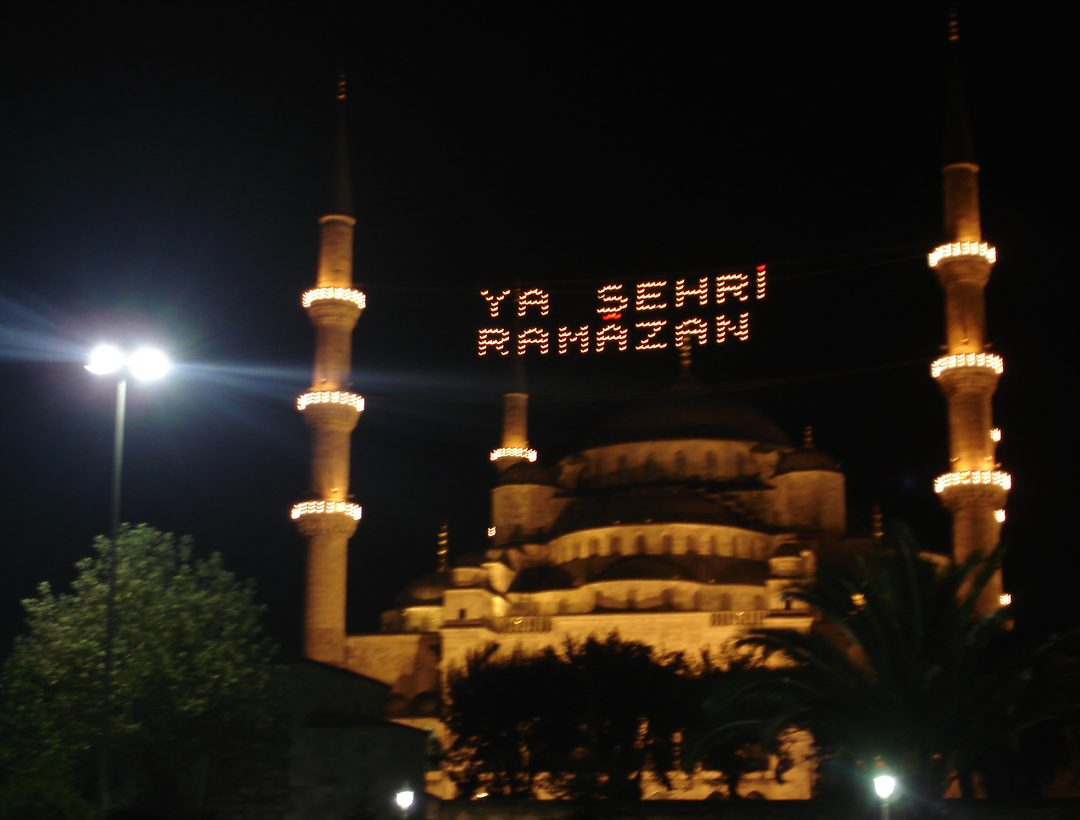
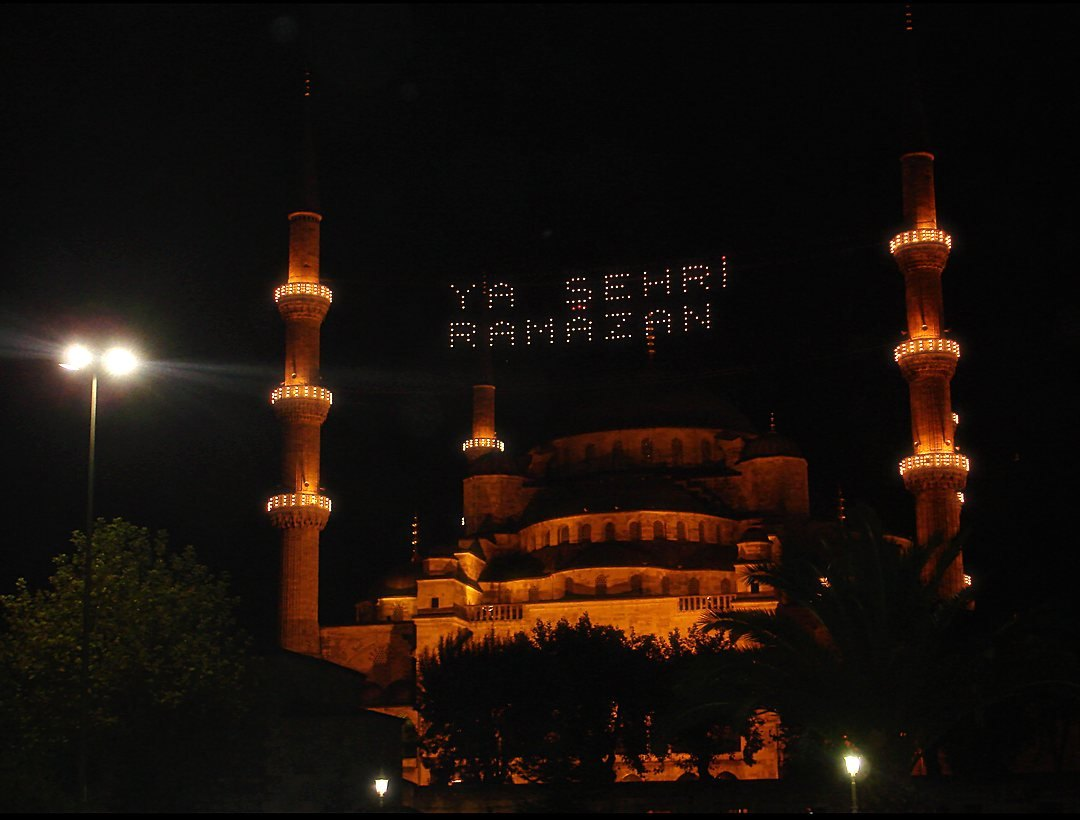
Özel gün kartları: seçilen tasarımlar yerleştirildi, yeni şablonlar eklendi
- 14 günün kartı seçildi ve ozel-gunler.json'a işlendi
- Yeni şablonlar: madalyon, çini, mektup, oval, yazı içinde fotoğraf, hatıra pulu
- Ramazan kartında daha net fotoğraf
- 15 Temmuz metni: Demokrasi ve Millî Birlik Günü

diff --git a/docs/kartlar.js b/docs/kartlar.js
@@ -943,12 +943,12 @@ window.RC_KARTLAR = (function () {
     g.restore();
   }
   // Altın yaldızlı el yazısı satırı (sığmazsa küçülür)
-  function elYazisi(g, W, metin, px, renk) {
+  function elYazisi(g, W, metin, px, renk, golgesiz) {
     g.font = EL(px); while (px > 60 && g.measureText(metin).width > W - 190) { px -= 4; g.font = EL(px); }
     const h = Math.round(px * 1.05);
     return { h, ciz: (y) => {
       g.save(); g.font = EL(px); const w = g.measureText(metin).width, cy = y + h / 2 + px * 0.06;
-      g.shadowColor = "rgba(0,0,0,.45)"; g.shadowBlur = 18; g.shadowOffsetY = 3;
+      if (!golgesiz) { g.shadowColor = "rgba(0,0,0,.45)"; g.shadowBlur = 18; g.shadowOffsetY = 3; }
       g.fillStyle = renk || dz(g, W / 2 - w / 2, cy - px / 2, W / 2 + w / 2, cy + px / 2, ALTIN); g.fillText(metin, W / 2, cy);
       g.restore();
     } };
@@ -977,8 +977,8 @@ window.RC_KARTLAR = (function () {
     if (ad === "yilbasi") { bas = altM || bas; altM = ""; }
     const kur = (k) => {
       const L = [], b = (n) => Math.round(n * k);
-      if (o.tarih) L.push(Y.tarihSatiri(g, W, o.tarih, P.tarih || P.vurgu, 26), b(el ? 6 : 26));
-      if (el) L.push(elYazisi(g, W, el, b(f.elPx || 128), P.el));
+      if (o.tarih && !f.tarihYok) L.push(Y.tarihSatiri(g, W, o.tarih, P.tarih || P.vurgu, 26), b(el ? 6 : 26));
+      if (el) L.push(elYazisi(g, W, el, b(f.elPx || 128), P.el, P.elGolgesiz));
       if (ad === "yilbasi" && o.yil) { const px = b(150); L.push(b(2), { h: Math.round(px * 0.9), ciz: (y) => { g.save(); g.font = SERIF(800, px); const w = g.measureText(String(o.yil)).width; g.fillStyle = dz(g, W / 2 - w / 2, y, W / 2 + w / 2, y + px, ALTIN); g.shadowColor = "rgba(255,200,110,.35)"; g.shadowBlur = 36; g.fillText(String(o.yil), W / 2, y + px * 0.47); g.restore(); } }); }
       if (f.baslik) { const px = b(f.baslikPx || 84); L.push({ h: Math.round(px * 1.05), ciz: (y) => { g.save(); g.font = SERIF(700, px); Y.harfAra(g, 6); g.fillStyle = P.baslik || "#fff"; g.fillText(f.baslik, W / 2, y + px * 0.52); Y.harfAra(g, 0); g.restore(); } }); }
       L.push(b(14), { h: 16, ciz: (y) => ayrac(g, W / 2, y + 8, 300, P.cizgi || P.vurgu) }, b(22));
@@ -1067,7 +1067,217 @@ window.RC_KARTLAR = (function () {
     altImza(g, W, o, P.yazi, P.vurgu, P.soluk);
     kunye(g, f, W / 2, 1300, "rgba(255,255,255,.55)");
   }
-  const SABLON = { tam: tamSablon, kemer: kemerSablon, kolaj: kolajSablon };
+  // Şablon 4, yazı içinde fotoğraf: büyük harflerin içi fotoğrafla dolar (ör. 15 TEMMUZ)
+  function maskeSablon(g, W, H, o, f) {
+    const P = f.P, S = en() ? f.sozEn : f.soz;
+    g.fillStyle = P.zemin; g.fillRect(0, 0, W, H);
+    isik(g, W / 2, 400, 700, hexA(P.vurgu, 0.2));
+    // üstte küçük bayrak
+    g.save(); g.shadowColor = "rgba(0,0,0,.5)"; g.shadowBlur = 14; g.translate(W / 2 - 42, 64); bayrakDuz(g, 84, 56); g.restore();
+    const mc = yeni(W, H), m = mc.getContext("2d"); m.textAlign = "center"; m.textBaseline = "alphabetic";
+    const satir = []; let y = 150;
+    S.forEach((t, i) => {
+      let px = i === 0 ? 600 : 210, ara = i === 0 ? -10 : 12; const yaz = () => { m.font = SERIF(900, px); Y.harfAra(m, ara); };
+      yaz(); while (m.measureText(t).width > W - 150) { px -= 6; yaz(); }
+      const me = m.measureText(t); y += me.actualBoundingBoxAscent; satir.push([t, px, ara, y]); y += me.actualBoundingBoxDescent + (i === 0 ? 40 : 0);
+    });
+    const yazHepsi = (c, dolgu, cizgi) => { for (const [t, px, ara, yy] of satir) { c.font = SERIF(900, px); Y.harfAra(c, ara); if (dolgu) c.fillText(t, W / 2, yy); if (cizgi) c.strokeText(t, W / 2, yy); } Y.harfAra(c, 0); };
+    m.fillStyle = "#fff"; yazHepsi(m, true);
+    m.globalCompositeOperation = "source-in";
+    if (o.foto) { kapla(m, o.foto, 0, 120, W, y - 100, f.odak); m.globalCompositeOperation = "source-atop"; m.fillStyle = dz(m, 0, 120, 0, y, [[0, "rgba(0,0,0,0)"], [1, "rgba(0,0,0,.25)"]]); m.fillRect(0, 0, W, H); }
+    else { m.fillStyle = dz(m, 0, 150, 0, y, [[0, "#ff4b55"], [1, "#8f0610"]]); m.fillRect(0, 0, W, H); }
+    g.save(); g.shadowColor = hexA(P.vurgu, 0.6); g.shadowBlur = 70; g.drawImage(mc, 0, 0); g.restore();
+    g.drawImage(mc, 0, 0);
+    g.save(); g.textAlign = "center"; g.textBaseline = "alphabetic"; g.strokeStyle = "rgba(255,255,255,.55)"; g.lineWidth = 2; yazHepsi(g, false, true); g.restore();
+    cerceve(g, W, H, 26, hexA(P.cerceve || "#ffffff", 0.3));
+    fotoYazi(g, W, o, f, Math.max(y + 30, 780), 1112);
+    altImza(g, W, o, P.yazi, P.vurgu, P.soluk);
+    kunye(g, f, W / 2, 1302, "rgba(255,255,255,.5)");
+  }
+  // Şablon 5, madalyon: fotoğraf dilimli altın rozetin ortasında, altında kurdele, çevrede konfeti
+  function madalyonSablon(g, W, H, o, f) {
+    const P = f.P, cx = W / 2, cy = 420, R = 262;
+    zemin(g, W, H, [[0, P.zemin2], [1, P.zemin]]);
+    g.save(); g.globalAlpha = P.desen || 0.12; selcuk(g, 0, 0, W, H, 120, { zemin: "rgba(0,0,0,0)", yildiz: P.vurgu, cizgi: P.vurgu, ic: P.zemin }); g.restore();
+    g.fillStyle = rz(g, cx, cy, R, 900, [[0, hexA(P.zemin, 0)], [1, hexA(P.zemin, 0.88)]]); g.fillRect(0, 0, W, H);
+    isik(g, cx, cy, R + 300, "rgba(255,214,140,.28)");
+    const r = rastgele(f.tohum || 309);
+    for (let i = 0; i < 70; i++) {
+      const x = 50 + r() * (W - 100), yy = 50 + r() * 740, t = r(), a = r() * PI2, s = 3 + r() * 7, renk = r() < 0.6 ? P.vurgu : P.konfeti || "#ffffff", al = 0.35 + r() * 0.55;
+      if (Math.hypot(x - cx, yy - cy) < R + 80) continue;
+      g.save(); g.globalAlpha = al; g.fillStyle = renk; g.translate(x, yy); g.rotate(a);
+      if (t < 0.55) baklava(g, 0, 0, s); else if (t < 0.85) yildiz8(g, 0, 0, s + 2, 0.5); else { g.beginPath(); g.arc(0, 0, s * 0.5, 0, PI2); }
+      g.fill(); g.restore();
+    }
+    // dilimli altın rozet
+    const n = 40, Rd = R + 54, rozet = () => { g.beginPath(); for (let i = 0; i <= 720; i++) { const t = (i / 720) * PI2, rr = Rd - 16 + 16 * Math.sqrt(Math.abs(Math.cos((t * n) / 2))); g.lineTo(cx + Math.cos(t) * rr, cy + Math.sin(t) * rr); } g.closePath(); };
+    g.save(); g.shadowColor = "rgba(0,0,0,.55)"; g.shadowBlur = 44; g.shadowOffsetY = 16; rozet(); g.fillStyle = dz(g, cx - Rd, cy - Rd, cx + Rd, cy + Rd, ALTIN); g.fill(); g.restore();
+    g.beginPath(); g.arc(cx, cy, R + 30, 0, PI2); g.fillStyle = P.halka || P.zemin; g.fill();
+    g.fillStyle = dz(g, cx - R, cy - R, cx + R, cy + R, ALTIN);
+    for (let i = 0; i < 64; i++) { const t = (i / 64) * PI2; g.beginPath(); g.arc(cx + Math.cos(t) * (R + 17), cy + Math.sin(t) * (R + 17), 3.6, 0, PI2); g.fill(); }
+    g.save(); g.beginPath(); g.arc(cx, cy, R, 0, PI2); g.clip();
+    if (o.foto) kapla(g, o.foto, cx - R, cy - R, 2 * R, 2 * R, f.odak); else { g.fillStyle = dz(g, 0, cy - R, 0, cy + R, [[0, P.zemin2], [1, P.vurgu]]); g.fillRect(cx - R, cy - R, 2 * R, 2 * R); }
+    g.fillStyle = rz(g, cx, cy, R * 0.55, R, [[0, "rgba(0,0,0,0)"], [1, "rgba(0,0,0,.32)"]]); g.fillRect(cx - R, cy - R, 2 * R, 2 * R);
+    g.restore();
+    g.beginPath(); g.arc(cx, cy, R + 4, 0, PI2); g.lineWidth = 5; g.strokeStyle = dz(g, cx - R, cy - R, cx + R, cy + R, ALTIN); g.stroke();
+    // kurdele: iki ucu V kesik, ortası hafif kavisli
+    const ky = cy + R + 4, kh = 88, kx0 = 170, kx1 = W - 170, s = 16, kur = P.kurdele || "#b3122e";
+    for (const k of [-1, 1]) {
+      const xd = k < 0 ? kx0 : kx1, xu = xd + k * 110;
+      g.save(); g.shadowColor = "rgba(0,0,0,.45)"; g.shadowBlur = 18; g.shadowOffsetY = 8;
+      g.beginPath(); g.moveTo(xd - k * 40, ky + 22); g.lineTo(xu, ky + 22); g.lineTo(xu - k * 34, ky + 22 + kh / 2); g.lineTo(xu, ky + 22 + kh); g.lineTo(xd - k * 40, ky + 22 + kh); g.closePath();
+      g.fillStyle = P.kurdeleKoyu || "#7d0b1f"; g.fill(); g.restore();
+    }
+    g.save(); g.shadowColor = "rgba(0,0,0,.45)"; g.shadowBlur = 22; g.shadowOffsetY = 10;
+    g.beginPath(); g.moveTo(kx0, ky + s); g.quadraticCurveTo(cx, ky - s, kx1, ky + s); g.lineTo(kx1, ky + kh + s); g.quadraticCurveTo(cx, ky + kh - s, kx0, ky + kh + s); g.closePath();
+    g.fillStyle = dz(g, 0, ky - s, 0, ky + kh + s, [[0, hexA(kur, 1)], [0.5, kur], [1, P.kurdeleKoyu || "#7d0b1f"]]); g.fill(); g.restore();
+    g.strokeStyle = dz(g, kx0, 0, kx1, 0, ALTIN); g.lineWidth = 2;
+    for (const d of [8, kh - 8]) { g.beginPath(); g.moveTo(kx0 + 6, ky + s + d - 2); g.quadraticCurveTo(cx, ky - s + d + 2, kx1 - 6, ky + s + d - 2); g.stroke(); }
+    g.save(); g.font = SERIF(700, 44); Y.harfAra(g, 5); g.fillStyle = "#fff"; g.shadowColor = "rgba(0,0,0,.35)"; g.shadowBlur = 6;
+    const ad = en() ? f.kurdeleEn : f.kurdeleYazi; let px = 44; while (g.measureText(ad).width > kx1 - kx0 - 90 && px > 28) { px -= 2; g.font = SERIF(700, px); }
+    g.fillText(ad, cx, ky + kh / 2 - 2); Y.harfAra(g, 0); g.restore();
+    cerceve(g, W, H, 26, hexA(P.cerceve || "#e7c983", 0.6));
+    fotoYazi(g, W, o, f, ky + kh + 46, 1112);
+    altImza(g, W, o, P.yazi, P.vurgu, P.soluk);
+    kunye(g, f, W / 2, 1302, P.kunye || "rgba(255,255,255,.55)");
+  }
+  // İznik çinisi: beyaz sır üstünde kobalt göbek, turkuaz yapraklar, mercan kırmızısı orta
+  function ciniKaro(g, x, y, s, R) {
+    g.save(); g.translate(x, y); g.beginPath(); g.rect(0, 0, s, s); g.clip();
+    g.fillStyle = R.zemin; g.fillRect(0, 0, s, s);
+    g.fillStyle = R.turkuaz;
+    for (const [cx, cy] of [[0, 0], [s, 0], [0, s], [s, s]]) for (let k = 0; k < 4; k++) { const a = (k * Math.PI) / 2 + Math.PI / 4; g.beginPath(); g.ellipse(cx + Math.cos(a) * s * 0.19, cy + Math.sin(a) * s * 0.19, s * 0.17, s * 0.07, a, 0, PI2); g.fill(); }
+    g.fillStyle = R.kirmizi; for (const [cx, cy] of [[0, 0], [s, 0], [0, s], [s, s]]) { g.beginPath(); g.arc(cx, cy, s * 0.06, 0, PI2); g.fill(); }
+    g.fillStyle = R.kobalt; for (const [cx, cy] of [[s / 2, 0], [s / 2, s], [0, s / 2], [s, s / 2]]) { g.beginPath(); g.arc(cx, cy, s * 0.07, 0, PI2); g.fill(); }
+    const c = s / 2; g.fillStyle = R.kobalt;
+    for (let k = 0; k < 8; k++) { const a = (k * Math.PI) / 4; g.beginPath(); g.ellipse(c + Math.cos(a) * s * 0.17, c + Math.sin(a) * s * 0.17, s * 0.14, s * 0.06, a, 0, PI2); g.fill(); }
+    g.beginPath(); g.arc(c, c, s * 0.09, 0, PI2); g.fillStyle = R.turkuaz; g.fill();
+    g.beginPath(); g.arc(c, c, s * 0.055, 0, PI2); g.fillStyle = R.kirmizi; g.fill();
+    g.strokeStyle = "rgba(20,50,95,.22)"; g.lineWidth = 1; g.strokeRect(0.5, 0.5, s - 1, s - 1);
+    g.restore();
+  }
+  // Şablon 6, çini çerçeve: kenarlar İznik çinisi, ortada fotoğraf ve yazı
+  function ciniSablon(g, W, H, o, f) {
+    const P = f.P, R = P.cini, s = 90, nx = W / s, ny = Math.round(H / s);
+    g.fillStyle = P.zemin; g.fillRect(0, 0, W, H);
+    for (let j = 0; j < ny; j++) for (let i = 0; i < nx; i++) if (i === 0 || j === 0 || i === nx - 1 || j === ny - 1) ciniKaro(g, i * s, j * s, s, R);
+    g.fillStyle = rz(g, W / 2, H / 2, 200, 760, [[0, P.zemin], [1, P.zemin2 || P.zemin]]); g.fillRect(s, s, W - 2 * s, H - 2 * s);
+    g.strokeStyle = R.kobalt; g.lineWidth = 6; g.strokeRect(s + 3, s + 3, W - 2 * s - 6, H - 2 * s - 6);
+    g.strokeStyle = R.kirmizi; g.lineWidth = 2; g.strokeRect(s + 12, s + 12, W - 2 * s - 24, H - 2 * s - 24);
+    // fotoğraf penceresi
+    const x0 = 150, y0 = 150, x1 = W - 150, y1 = 668;
+    g.save(); g.shadowColor = "rgba(20,40,80,.35)"; g.shadowBlur = 26; g.shadowOffsetY = 10; g.fillStyle = R.kobalt; g.fillRect(x0 - 10, y0 - 10, x1 - x0 + 20, y1 - y0 + 20); g.restore();
+    if (o.foto) kapla(g, o.foto, x0, y0, x1 - x0, y1 - y0, f.odak); else { g.fillStyle = dz(g, 0, y0, 0, y1, [[0, R.turkuaz], [1, R.kobalt]]); g.fillRect(x0, y0, x1 - x0, y1 - y0); }
+    g.strokeStyle = "rgba(255,255,255,.85)"; g.lineWidth = 2; g.strokeRect(x0 + 8, y0 + 8, x1 - x0 - 16, y1 - y0 - 16);
+    g.fillStyle = R.kirmizi; for (const [x, y] of [[x0 - 10, y0 - 10], [x1 + 10, y0 - 10], [x0 - 10, y1 + 10], [x1 + 10, y1 + 10]]) { yildiz8(g, x, y, 16, 0.5); g.fill(); }
+    kunye(g, f, x1 + 10, y1 + 34, P.kunye || "rgba(29,42,68,.6)", false, "right");
+    fotoYazi(g, W, o, f, y1 + 50, 1064);
+    Y.imza(g, W, 1116, o.ikon, P.yazi, P.vurgu, P.soluk);
+  }
+  // Şablon 7, mektup: çizgili kâğıt, bantla yapıştırılmış fotoğraf, el yazısıyla hitap ve imza
+  function mektupSablon(g, W, H, o, f) {
+    const P = f.P, M = en() ? f.mektupEn : f.mektup, r = rastgele(41);
+    g.fillStyle = P.zemin; g.fillRect(0, 0, W, H);
+    for (let i = 0; i < 2600; i++) { g.fillStyle = r() < 0.5 ? "rgba(120,80,50,.04)" : "rgba(255,255,255,.35)"; g.fillRect(r() * W, r() * H, 1 + r() * 2, 1 + r() * 2); }
+    g.fillStyle = rz(g, W / 2, H / 2, 300, 900, [[0, "rgba(0,0,0,0)"], [1, "rgba(120,70,40,.12)"]]); g.fillRect(0, 0, W, H);
+    // tarih (mektup başı gibi sağ üstte)
+    if (o.tarih) { g.save(); g.textAlign = "right"; g.font = Y.PF(800, 22); Y.harfAra(g, 5); g.fillStyle = P.tarih || P.vurgu; g.fillText(o.tarih, W - 96, 70); Y.harfAra(g, 0); g.restore(); }
+    // fotoğraf: anı fotoğrafı gibi beyaz kenarlı, hafif eğik, iki köşesinde bant
+    const fw = 600, fh = 420, fx = W / 2 + 10, fy = 356, a = -0.045;
+    g.save(); g.translate(fx, fy); g.rotate(a);
+    g.shadowColor = "rgba(70,40,30,.35)"; g.shadowBlur = 30; g.shadowOffsetY = 12; g.fillStyle = "#fffdf8"; g.fillRect(-fw / 2 - 22, -fh / 2 - 22, fw + 44, fh + 104); g.shadowColor = "transparent";
+    if (o.foto) kapla(g, o.foto, -fw / 2, -fh / 2, fw, fh, f.odak); else { g.fillStyle = P.vurgu; g.fillRect(-fw / 2, -fh / 2, fw, fh); }
+    g.font = EL(46); g.fillStyle = "#5b4a44"; g.fillText(en() ? f.yerEn || f.yer : f.yer, 0, fh / 2 + 42);
+    for (const k of [-1, 1]) { g.save(); g.translate(k * (fw / 2 - 10), -fh / 2 - 16); g.rotate(k * 0.7); g.fillStyle = "rgba(240,226,190,.85)"; g.fillRect(-58, -16, 116, 32); g.restore(); }
+    g.restore();
+    // kurutulmuş laleler
+    lale(g, 900, 610, 0.4, 0.42, P.lale1 || "#f6a04d", P.lale2 || "#d9541f", P.sap || "#5f8a4c");
+    lale(g, 930, 640, 0.34, 0.12, P.lale1 || "#f6a04d", P.lale2 || "#d9541f", P.sap || "#5f8a4c");
+    // çizgiler ve yazı
+    const sol = 120, sag = W - 120, ara = 62, ilk = 760;
+    g.strokeStyle = hexA(P.cizgi, 0.32); g.lineWidth = 1.4;
+    for (let y = ilk; y <= 1096; y += ara) { g.beginPath(); g.moveTo(sol - 20, y); g.lineTo(sag + 20, y); g.stroke(); }
+    g.save(); g.textAlign = "left"; g.textBaseline = "alphabetic";
+    g.font = EL(92); g.fillStyle = P.el || P.vurgu; g.fillText(M[0], sol, ilk - 6);
+    const rr = Y.satirla(g, M[1], sag - sol, (p) => SERIF(500, p, true), 40, 30, 4), L = rr.s;
+    g.font = SERIF(500, rr.px, true); g.fillStyle = P.yazi; L.forEach((t, i) => g.fillText(t, sol, ilk + ara * (i + 1) - 12));
+    g.textAlign = "right"; g.font = EL(70); g.fillStyle = P.el || P.vurgu; g.fillText(M[2], sag, ilk + ara * (L.length + 1) + 4);
+    g.restore();
+    altImza(g, W, o, P.yazi, P.vurgu, P.soluk);
+    kunye(g, f, W / 2, 1302, P.kunye || "rgba(60,40,35,.55)");
+  }
+  // Şablon 8, oval çerçeve: incili altın oval içinde fotoğraf, tepede fiyonk, altta çiçekler
+  function ovalSablon(g, W, H, o, f) {
+    const P = f.P, cx = W / 2, cy = 440, rx = 280, ry = 330, r = rastgele(f.tohum || 77);
+    zemin(g, W, H, [[0, P.zemin2], [1, P.zemin]]);
+    for (let i = 0; i < 26; i++) { const x = r() * W, y = r() * 900, s = 8 + r() * 16; g.save(); g.translate(x, y); g.rotate(r() * PI2); g.globalAlpha = 0.18 + r() * 0.22; g.fillStyle = r() < 0.5 ? P.vurgu : P.yaprak || "#e9a3b3"; g.beginPath(); g.ellipse(0, 0, s, s * 0.55, 0, 0, PI2); g.fill(); g.restore(); }
+    g.save(); g.shadowColor = "rgba(90,30,45,.35)"; g.shadowBlur = 44; g.shadowOffsetY = 16; g.beginPath(); g.ellipse(cx, cy, rx + 36, ry + 36, 0, 0, PI2); g.fillStyle = dz(g, cx - rx, cy - ry, cx + rx, cy + ry, ALTIN); g.fill(); g.restore();
+    g.beginPath(); g.ellipse(cx, cy, rx + 26, ry + 26, 0, 0, PI2); g.fillStyle = P.halka || "#fff8f4"; g.fill();
+    for (let i = 0; i < 76; i++) { const t = (i / 76) * PI2, x = cx + Math.cos(t) * (rx + 13), y = cy + Math.sin(t) * (ry + 13); g.fillStyle = rz(g, x - 2, y - 2, 0, 8, [[0, "#ffffff"], [0.6, "#f3e7e2"], [1, "#cdb8b0"]]); g.beginPath(); g.arc(x, y, 6.2, 0, PI2); g.fill(); }
+    g.save(); g.beginPath(); g.ellipse(cx, cy, rx, ry, 0, 0, PI2); g.clip();
+    if (o.foto) kapla(g, o.foto, cx - rx, cy - ry, 2 * rx, 2 * ry, f.odak); else { g.fillStyle = dz(g, 0, cy - ry, 0, cy + ry, [[0, P.zemin2], [1, P.vurgu]]); g.fillRect(cx - rx, cy - ry, 2 * rx, 2 * ry); }
+    g.fillStyle = rz(g, cx, cy, rx * 0.6, ry * 1.05, [[0, "rgba(0,0,0,0)"], [1, "rgba(60,20,30,.28)"]]); g.fillRect(cx - rx, cy - ry, 2 * rx, 2 * ry);
+    g.restore();
+    g.beginPath(); g.ellipse(cx, cy, rx + 2, ry + 2, 0, 0, PI2); g.lineWidth = 4; g.strokeStyle = dz(g, cx - rx, cy - ry, cx + rx, cy + ry, ALTIN); g.stroke();
+    // fiyonk
+    const by = cy - ry - 30, kr = P.kurdele || "#c2416b", kk = P.kurdeleKoyu || "#8e2347";
+    g.save(); g.shadowColor = "rgba(80,20,40,.35)"; g.shadowBlur = 12; g.shadowOffsetY = 5;
+    for (const k of [-1, 1]) {
+      g.fillStyle = kk; g.beginPath(); g.moveTo(cx, by + 6); g.quadraticCurveTo(cx + k * 30, by + 70, cx + k * 58, by + 118); g.lineTo(cx + k * 30, by + 108); g.lineTo(cx + k * 22, by + 128); g.quadraticCurveTo(cx + k * 6, by + 60, cx - k * 4, by + 10); g.closePath(); g.fill();
+      g.fillStyle = dz(g, cx, by - 40, cx + k * 110, by + 30, [[0, kk], [0.4, kr], [1, kr]]);
+      g.beginPath(); g.moveTo(cx, by); g.bezierCurveTo(cx + k * 40, by - 70, cx + k * 120, by - 52, cx + k * 112, by - 6); g.bezierCurveTo(cx + k * 106, by + 34, cx + k * 44, by + 26, cx, by); g.fill();
+    }
+    g.fillStyle = kk; g.beginPath(); g.ellipse(cx, by, 20, 17, 0, 0, PI2); g.fill(); g.restore();
+    // altta karanfil ve lale demetleri
+    for (const k of [-1, 1]) {
+      const x = cx + k * (rx - 10), y = cy + ry - 6;
+      lale(g, x + k * 34, y + 26, 0.42, k * 0.55, P.lale1 || "#f4a6b8", P.lale2 || "#d4537a", P.sap || "#5f8a4c");
+      karanfil(g, x, y, 34, P.vurgu, P.kurdeleKoyu || "#8e2347");
+      karanfil(g, x - k * 44, y + 24, 26, P.yaprak || "#e98aa4", P.kurdeleKoyu || "#8e2347");
+    }
+    cerceve(g, W, H, 26, hexA(P.cerceve || "#c99a72", 0.6));
+    fotoYazi(g, W, o, f, cy + ry + 66, 1112);
+    altImza(g, W, o, P.yazi, P.vurgu, P.soluk);
+    kunye(g, f, W / 2, 1302, P.kunye || "rgba(58,29,37,.55)");
+  }
+  // Şablon 9, hatıra pulu: lacivert pul albümünde tırtıklı kenarlı pul, köşesinde kırmızı yuvarlak damga
+  function pulSablon(g, W, H, o, f) {
+    const P = f.P, T = en() ? f.pulEn : f.pul;
+    zemin(g, W, H, [[0, P.zemin2], [1, P.zemin]]);
+    g.strokeStyle = "rgba(255,255,255,.05)"; g.lineWidth = 2; for (let y = 60; y < H; y += 36) { g.beginPath(); g.moveTo(0, y); g.lineTo(W, y); g.stroke(); }
+    isik(g, W / 2, 420, 620, "rgba(255,255,255,.07)");
+    const pw = 620, ph = 760, px0 = -pw / 2, py0 = -ph / 2, a = -0.025, cx = W / 2, cy = 82 + ph / 2;
+    // pul kâğıdı: kenarları tırtıklı (yarım daireler kesilir)
+    const pc = yeni(pw + 40, ph + 40), p = pc.getContext("2d"), o2 = 20;
+    p.fillStyle = "#fbfaf6"; p.fillRect(o2, o2, pw, ph);
+    p.globalCompositeOperation = "destination-out"; const r = 9, ad = 26;
+    for (let x = o2 + ad / 2; x < o2 + pw; x += ad) for (const y of [o2, o2 + ph]) { p.beginPath(); p.arc(x, y, r, 0, PI2); p.fill(); }
+    for (let y = o2 + ad / 2; y < o2 + ph; y += ad) for (const x of [o2, o2 + pw]) { p.beginPath(); p.arc(x, y, r, 0, PI2); p.fill(); }
+    p.globalCompositeOperation = "source-over";
+    const fx = o2 + 30, fy = o2 + 30, fw = pw - 60, fh = pw - 60;
+    if (o.foto) kapla(p, o.foto, fx, fy, fw, fh, f.odak); else { p.fillStyle = "#e30a17"; p.fillRect(fx, fy, fw, fh); }
+    p.strokeStyle = "rgba(0,0,0,.18)"; p.lineWidth = 1; p.strokeRect(fx + 0.5, fy + 0.5, fw - 1, fh - 1);
+    p.textAlign = "center"; p.textBaseline = "middle";
+    let px = 70; p.font = SERIF(800, px); Y.harfAra(p, 4); while (p.measureText(T[0]).width > fw && px > 40) { px -= 2; p.font = SERIF(800, px); }
+    p.fillStyle = P.vurgu; p.fillText(T[0], o2 + pw / 2, fy + fh + 62);
+    px = 22; p.font = Y.PF(800, px); Y.harfAra(p, 4); while (p.measureText(T[1]).width > fw && px > 14) { px -= 1; p.font = Y.PF(800, px); }
+    p.fillStyle = "#26304a"; p.fillText(T[1], o2 + pw / 2, fy + fh + 118); Y.harfAra(p, 0);
+    g.save(); g.translate(cx, cy); g.rotate(a); g.shadowColor = "rgba(0,0,0,.55)"; g.shadowBlur = 34; g.shadowOffsetY = 14; g.drawImage(pc, px0 - o2, py0 - o2); g.restore();
+    // kırmızı yuvarlak damga (pulun sağ üst köşesinde, gökyüzünün üstünde; bayrağa değmez)
+    const dx = cx + pw / 2 - 24, dy = cy - ph / 2 + 92, dr = 100, M = en() ? f.damgaEn : f.damga;
+    g.save(); g.translate(dx, dy); g.rotate(-0.18); g.globalAlpha = 0.86; g.strokeStyle = P.damga; g.fillStyle = P.damga;
+    g.lineWidth = 4; g.beginPath(); g.arc(0, 0, dr, 0, PI2); g.stroke(); g.lineWidth = 2; g.beginPath(); g.arc(0, 0, dr - 34, 0, PI2); g.stroke();
+    g.font = Y.PF(800, 19); g.textAlign = "center"; g.textBaseline = "middle";
+    const harf = [...M[0]], aci = PI2 / harf.length;
+    harf.forEach((h, i) => { g.save(); g.rotate(-Math.PI / 2 + i * aci); g.translate(dr - 17, 0); g.rotate(Math.PI / 2); g.fillText(h, 0, 0); g.restore(); });
+    g.font = SERIF(800, 40); g.fillText(M[1], 0, 2);
+    g.restore();
+    cerceve(g, W, H, 26, hexA(P.cerceve || "#ffffff", 0.3));
+    fotoYazi(g, W, o, f, cy + ph / 2 + 36, 1112);
+    altImza(g, W, o, P.yazi, P.vurgu2 || P.vurgu, P.soluk);
+    kunye(g, f, W / 2, 1302, "rgba(255,255,255,.5)");
+  }
+  const SABLON = { tam: tamSablon, kemer: kemerSablon, kolaj: kolajSablon, maske: maskeSablon, madalyon: madalyonSablon, cini: ciniSablon, mektup: mektupSablon, oval: ovalSablon, pul: pulSablon };
   // Kar taneleri ve konfeti
   const kar = (g, W, H) => { const r = rastgele(77); g.save(); g.fillStyle = "rgba(255,255,255,.85)"; for (let i = 0; i < 160; i++) { const y = r() * 760, s = 1 + r() * 3.6; g.globalAlpha = 0.35 + r() * 0.6; g.beginPath(); g.arc(r() * W, y, s, 0, PI2); g.fill(); } g.restore(); };
   const yaldiz = (g, W, H) => { bokeh(g, 0, 40, W, 640, 26, ["#ffd98a", "#ffb35c", "#fff1c9"], 2027, 10, 46); const r = rastgele(9); for (let i = 0; i < 20; i++) parilti(g, 60 + r() * (W - 120), 60 + r() * 640, 6 + r() * 12, "rgba(255,240,200,.9)"); };
@@ -1094,7 +1304,25 @@ window.RC_KARTLAR = (function () {
     "babalar-f1": { s: "tam", fotoH: 820, kredi: "Sanket Mehta", lis: "CC BY 3.0", P: { zemin: "#1a0b08", vurgu: "#ffbe6b", yazi: "#fff", soluk: "rgba(255,255,255,.82)", cerceve: "#f0c48a" } },
     "babalar-f2": { s: "kemer", kredi: "Raicem", lis: "CC0", P: { zemin: "#13233a", zemin2: "#22395a", vurgu: "#f2c27b", yazi: "#fff", soluk: "rgba(255,255,255,.8)", cerceve: "#e7c983", desen: 0.08 } },
     "demokrasi-f1": { s: "tam", fotoH: 820, kredi: "Ninara", lis: "CC BY 2.0", elYok: true, agir: 700, basPx: 54, P: { zemin: "#07090f", vurgu: "#e30a17", tarih: "#ff5a5f", yazi: "#fff", soluk: "rgba(255,255,255,.82)", cizgi: "#e30a17", cerceve: "#ffffff" } },
-    "demokrasi-f2": { s: "kemer", kredi: "Julian Lupyan", lis: "CC0", elYok: true, agir: 700, basPx: 54, P: { zemin: "#0b0d14", zemin2: "#151a28", vurgu: "#e30a17", tarih: "#ff5a5f", yazi: "#fff", soluk: "rgba(255,255,255,.82)", cizgi: "#e30a17", cerceve: "#d9dde5", desen: 0.06 } }
+    "demokrasi-f2": { s: "kemer", kredi: "Julian Lupyan", lis: "CC0", elYok: true, agir: 700, basPx: 54, P: { zemin: "#0b0d14", zemin2: "#151a28", vurgu: "#e30a17", tarih: "#ff5a5f", yazi: "#fff", soluk: "rgba(255,255,255,.82)", cizgi: "#e30a17", cerceve: "#d9dde5", desen: 0.06 } },
+    "demokrasi-f3": { s: "maske", kredi: "Huseyinakbas63", lis: "CC BY 4.0", soz: ["15", "TEMMUZ"], sozEn: ["15", "JULY"], elYok: true, tarihYok: true, agir: 700, basPx: 50,
+      P: { zemin: "#07080d", vurgu: "#e30a17", yazi: "#fff", soluk: "rgba(255,255,255,.8)", cizgi: "#e30a17", cerceve: "#ffffff" } },
+    "demokrasi-f4": { s: "pul", kredi: "Kurmanbek", lis: "CC BY 4.0", elYok: true, agir: 700, basPx: 50, odak: [0.42, 0.5],
+      pul: ["15 TEMMUZ 2016", "DEMOKRASİ VE MİLLÎ BİRLİK GÜNÜ"], pulEn: ["15 JULY 2016", "DEMOCRACY AND NATIONAL UNITY DAY"],
+      damga: ["ŞEHİTLERİMİZİ RAHMETLE ANIYORUZ ★ ", "15·7"], damgaEn: ["IN MEMORY OF OUR MARTYRS ★ ", "15·7"],
+      P: { zemin: "#0b1426", zemin2: "#18264a", vurgu: "#d0101f", vurgu2: "#ff5a5f", tarih: "#ff6b70", damga: "#d0101f", yazi: "#fff", soluk: "rgba(255,255,255,.8)", cizgi: "#e30a17", cerceve: "#ffffff" } },
+    "rbayram-f3": { s: "madalyon", kredi: "flowcomm", lis: "CC BY 2.0", kurdeleYazi: "RAMAZAN BAYRAMI", kurdeleEn: "EID AL-FITR",
+      P: { zemin: "#062a2c", zemin2: "#0d4a4a", halka: "#05201f", vurgu: "#f2c46d", konfeti: "#ff9eb1", yazi: "#fff", soluk: "rgba(255,255,255,.82)", cerceve: "#e7c983", kurdele: "#c0182f", kurdeleKoyu: "#7d0b1f", desen: 0.13 } },
+    "rbayram-f4": { s: "cini", kredi: "PikiWiki Israel", lis: KM,
+      P: { zemin: "#fbf7ee", zemin2: "#f3ecdc", vurgu: "#c8352b", tarih: "#c8352b", el: "#1d4f9a", elGolgesiz: true, yazi: "#1d2a44", soluk: "#55607a", cizgi: "#c8352b", kunye: "rgba(29,42,68,.6)",
+        cini: { zemin: "#fbf8f0", kobalt: "#1d4f9a", turkuaz: "#1f9e93", kirmizi: "#c8352b" } } },
+    "anneler-f3": { s: "mektup", kredi: "Güldem Üstün", lis: "CC BY 2.0", yer: "Emirgan Korusu", yerEn: "Emirgan Park",
+      mektup: ["Canım Annem,", "Anneler Günün kutlu olsun! Bana yolu sen gösterdin, her yolculukta kalbimdesin. İyi ki varsın.", "Sevgiyle"],
+      mektupEn: ["Dear Mom,", "Happy Mother's Day! You showed me the way, and you are in my heart on every journey. I'm so glad you're my mom.", "With love"],
+      P: { zemin: "#f7f0e4", vurgu: "#b8455a", tarih: "#b8455a", el: "#a63a50", yazi: "#3b2a26", soluk: "#7a625a", cizgi: "#7c93b8" } },
+    "anneler-f4": { s: "oval", kredi: "Andy / Andrew Fogg", lis: "CC BY 2.0",
+      P: { zemin: "#f4d9de", zemin2: "#fdf2f2", vurgu: "#c2416b", el: "#b0365c", elGolgesiz: true, tarih: "#b0365c", yazi: "#3a1d25", soluk: "#7a5961", cizgi: "#c2416b", cerceve: "#c99a72",
+        kurdele: "#d0587e", kurdeleKoyu: "#9a2b52", yaprak: "#eba0b4", halka: "#fff8f4", lale1: "#f6b3c4", lale2: "#d4537a", sap: "#6b8f55" } }
   };
   for (const k of Object.keys(FK)) FK[k].foto = `kart/${k}.jpg`;
   const fotoTasarim = (g, W, H, o) => { const f = FK[o.kart]; SABLON[f.s](g, W, H, o, f); };
